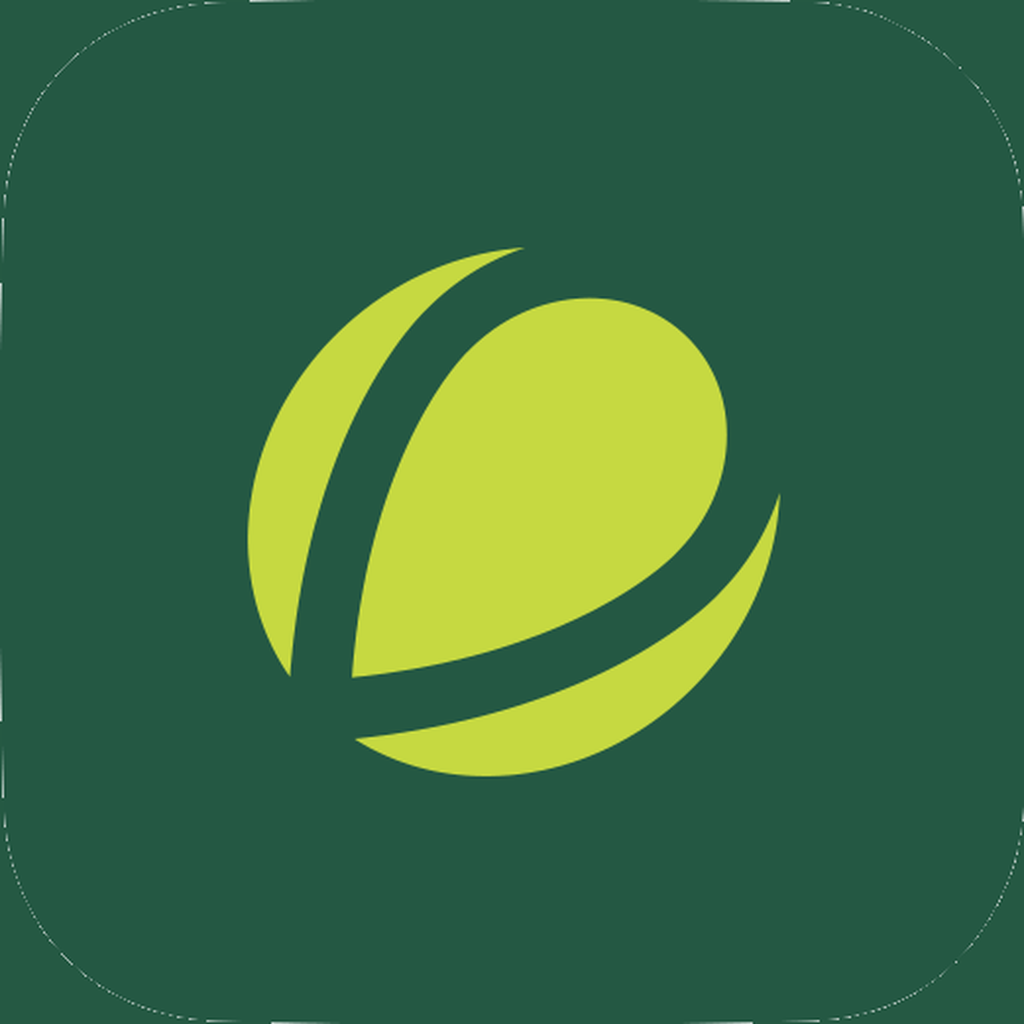
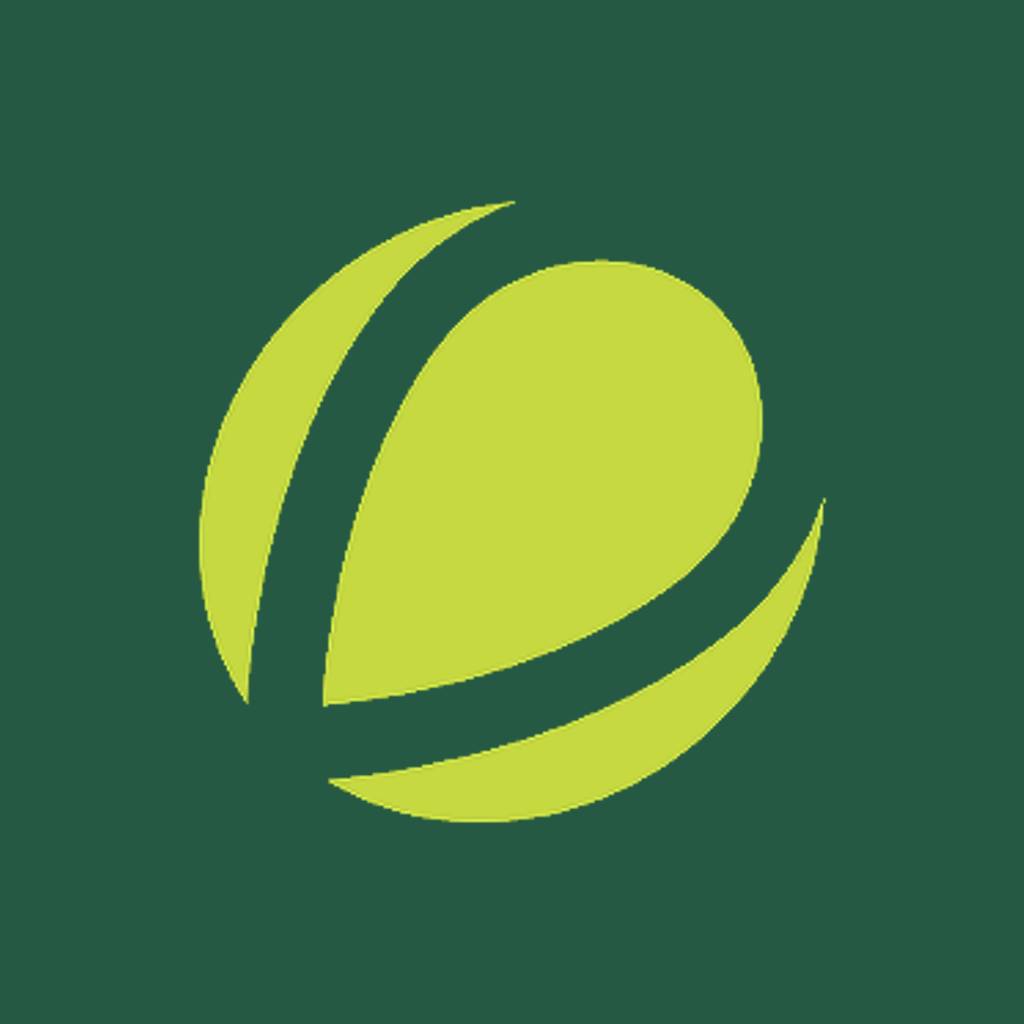
correcoes

Changed region(s): [[0.1875, 0.1875, 0.8125, 0.8125], [0.0, 0.75, 0.0312, 0.7812]]

diff --git a/app/index.tsx b/app/index.tsx
@@ -1,15 +1,28 @@
-import { useEffect, useRef } from 'react';
-import { Image, StyleSheet, View } from 'react-native';
+import { useEffect, useRef, useState } from 'react';
+import { Dimensions, Image, StyleSheet, View } from 'react-native';
 import { useRouter } from 'expo-router';
 import { Colors } from '../constants/colors';
 import { useAuth } from '../hooks/useAuth';
 
 const SPLASH_MS = 1200;
+/** ~40% da menor lado da tela — cresce/diminui com o aparelho. */
+function splashLogoSize() {
+  const { width, height } = Dimensions.get('window');
+  return Math.round(Math.min(width, height) * 0.4);
+}
 
 export default function LaunchScreen() {
   const router = useRouter();
   const { user, loading, onboardingComplete, isAdminClube } = useAuth();
   const navigated = useRef(false);
+  const [logoSize, setLogoSize] = useState(splashLogoSize);
+
+  useEffect(() => {
+    const sub = Dimensions.addEventListener('change', () => {
+      setLogoSize(splashLogoSize());
+    });
+    return () => sub.remove();
+  }, []);
 
   useEffect(() => {
     if (loading || navigated.current) return;
@@ -37,15 +50,21 @@ export default function LaunchScreen() {
   return (
     <View style={styles.container}>
       <Image
-        source={require('../assets/Launch.png')}
-        style={styles.image}
-        resizeMode="cover"
+        source={require('../assets/splash-mark.png')}
+        style={{ width: logoSize, height: logoSize }}
+        resizeMode="contain"
+        accessibilityRole="image"
+        accessibilityLabel="Rally Up"
       />
     </View>
   );
 }
 
 const styles = StyleSheet.create({
-  container: { flex: 1, backgroundColor: Colors.background },
-  image: { ...StyleSheet.absoluteFillObject, width: '100%', height: '100%' },
+  container: {
+    flex: 1,
+    backgroundColor: Colors.background,
+    alignItems: 'center',
+    justifyContent: 'center',
+  },
 });
